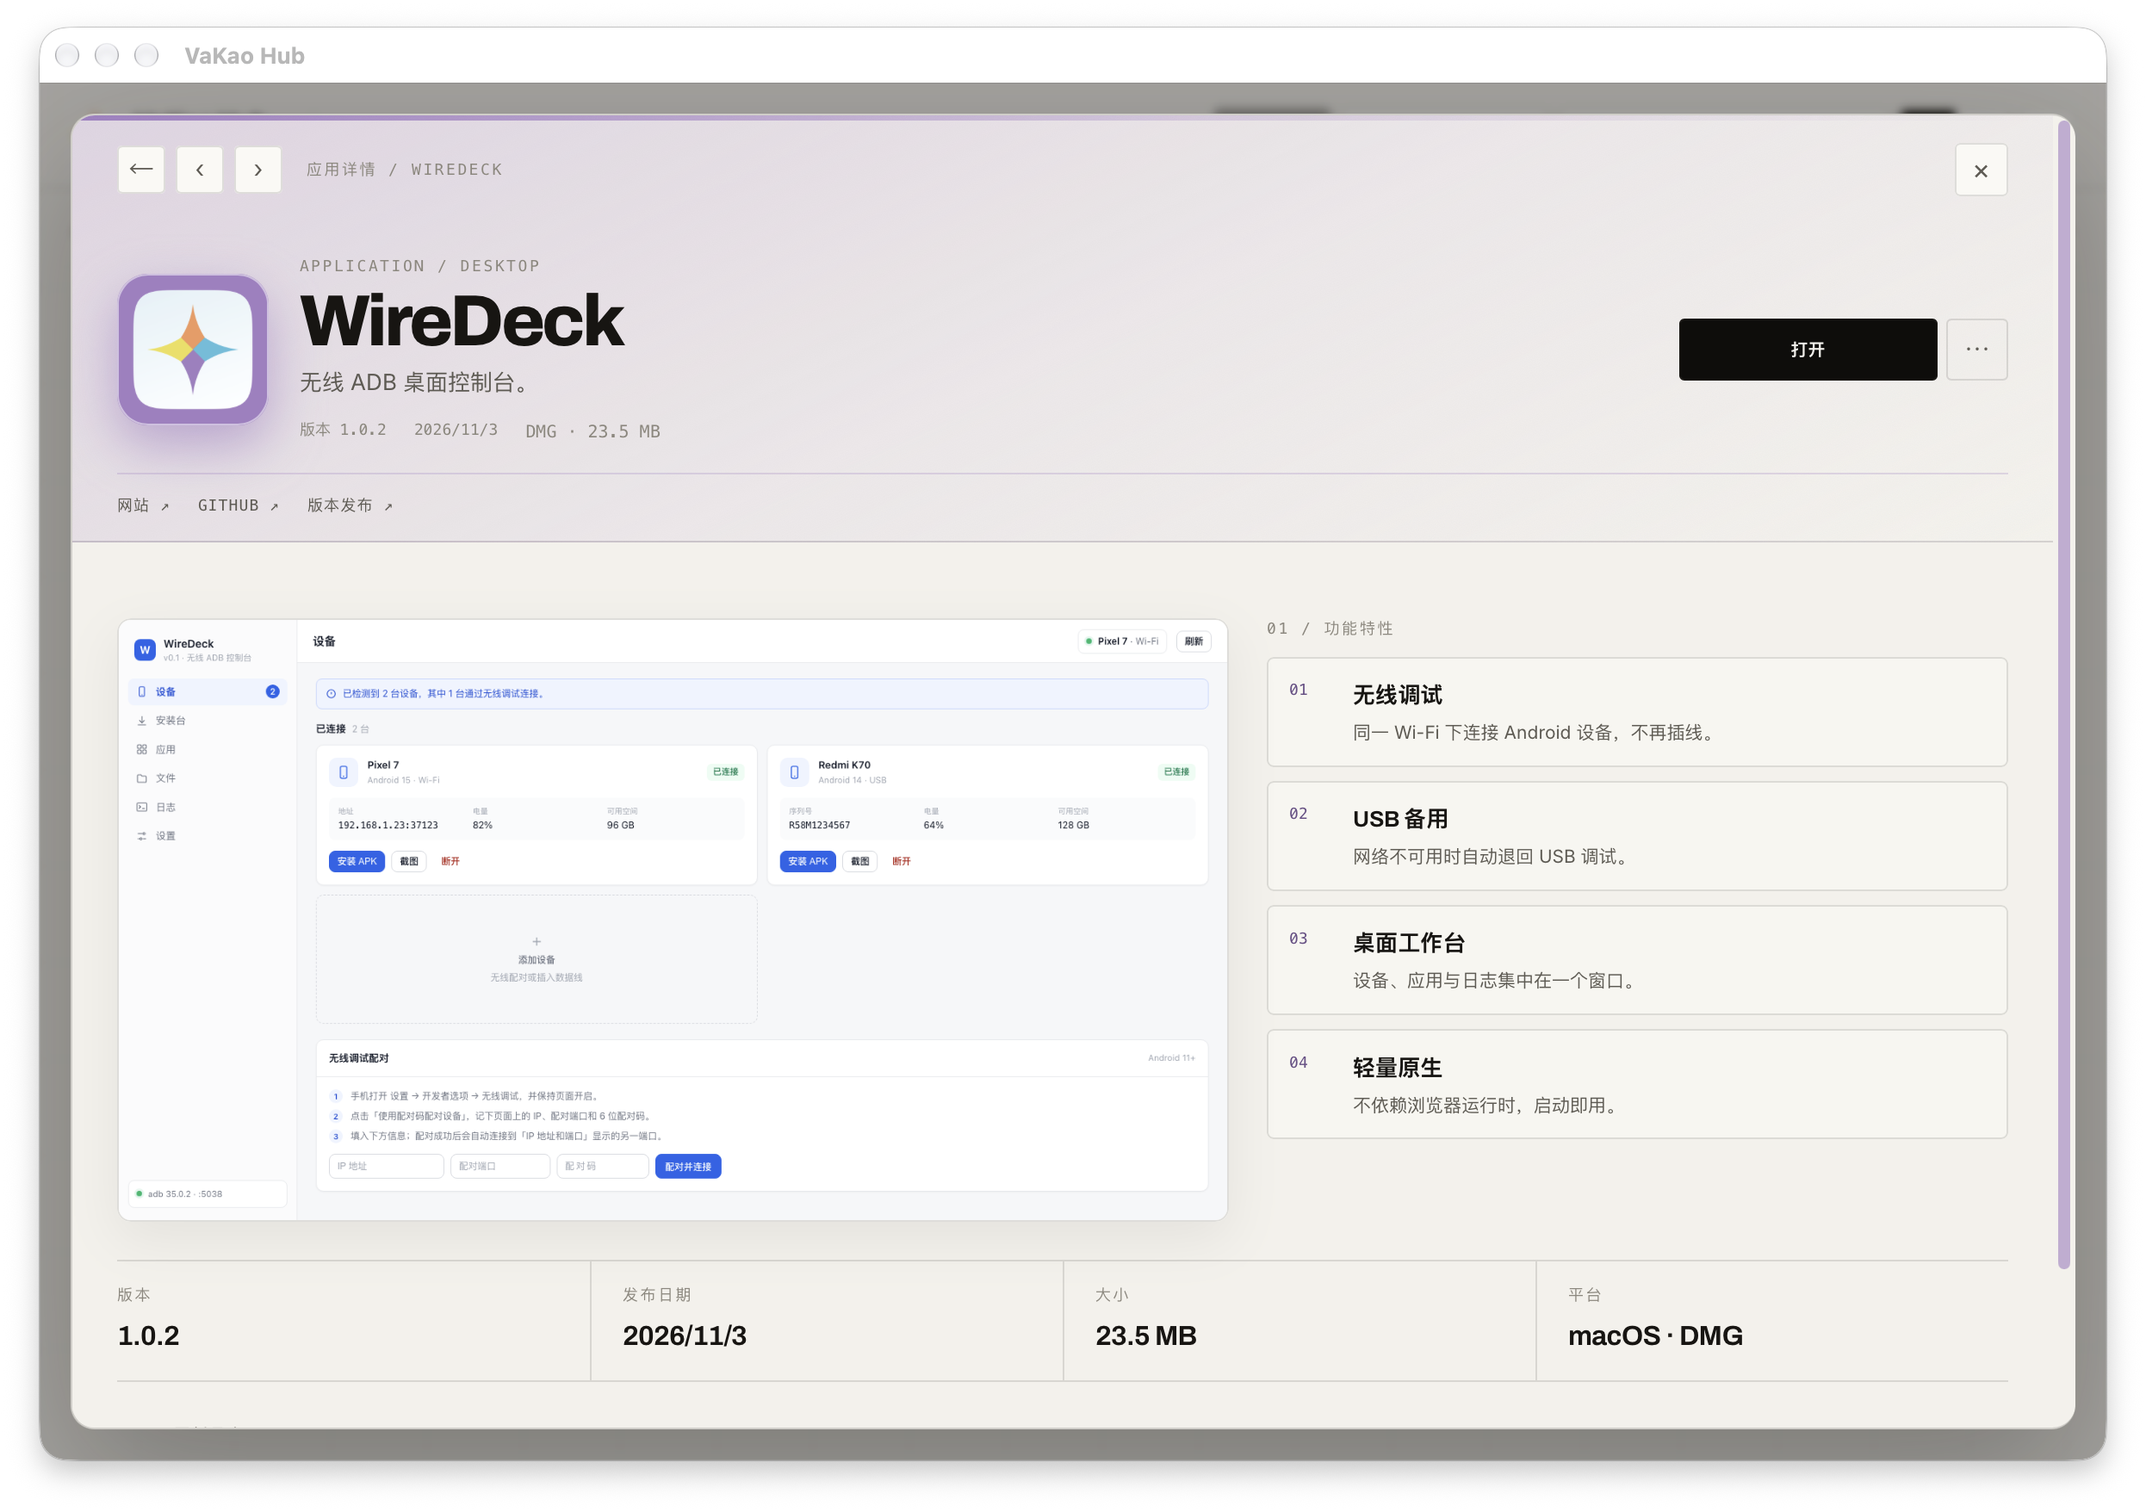
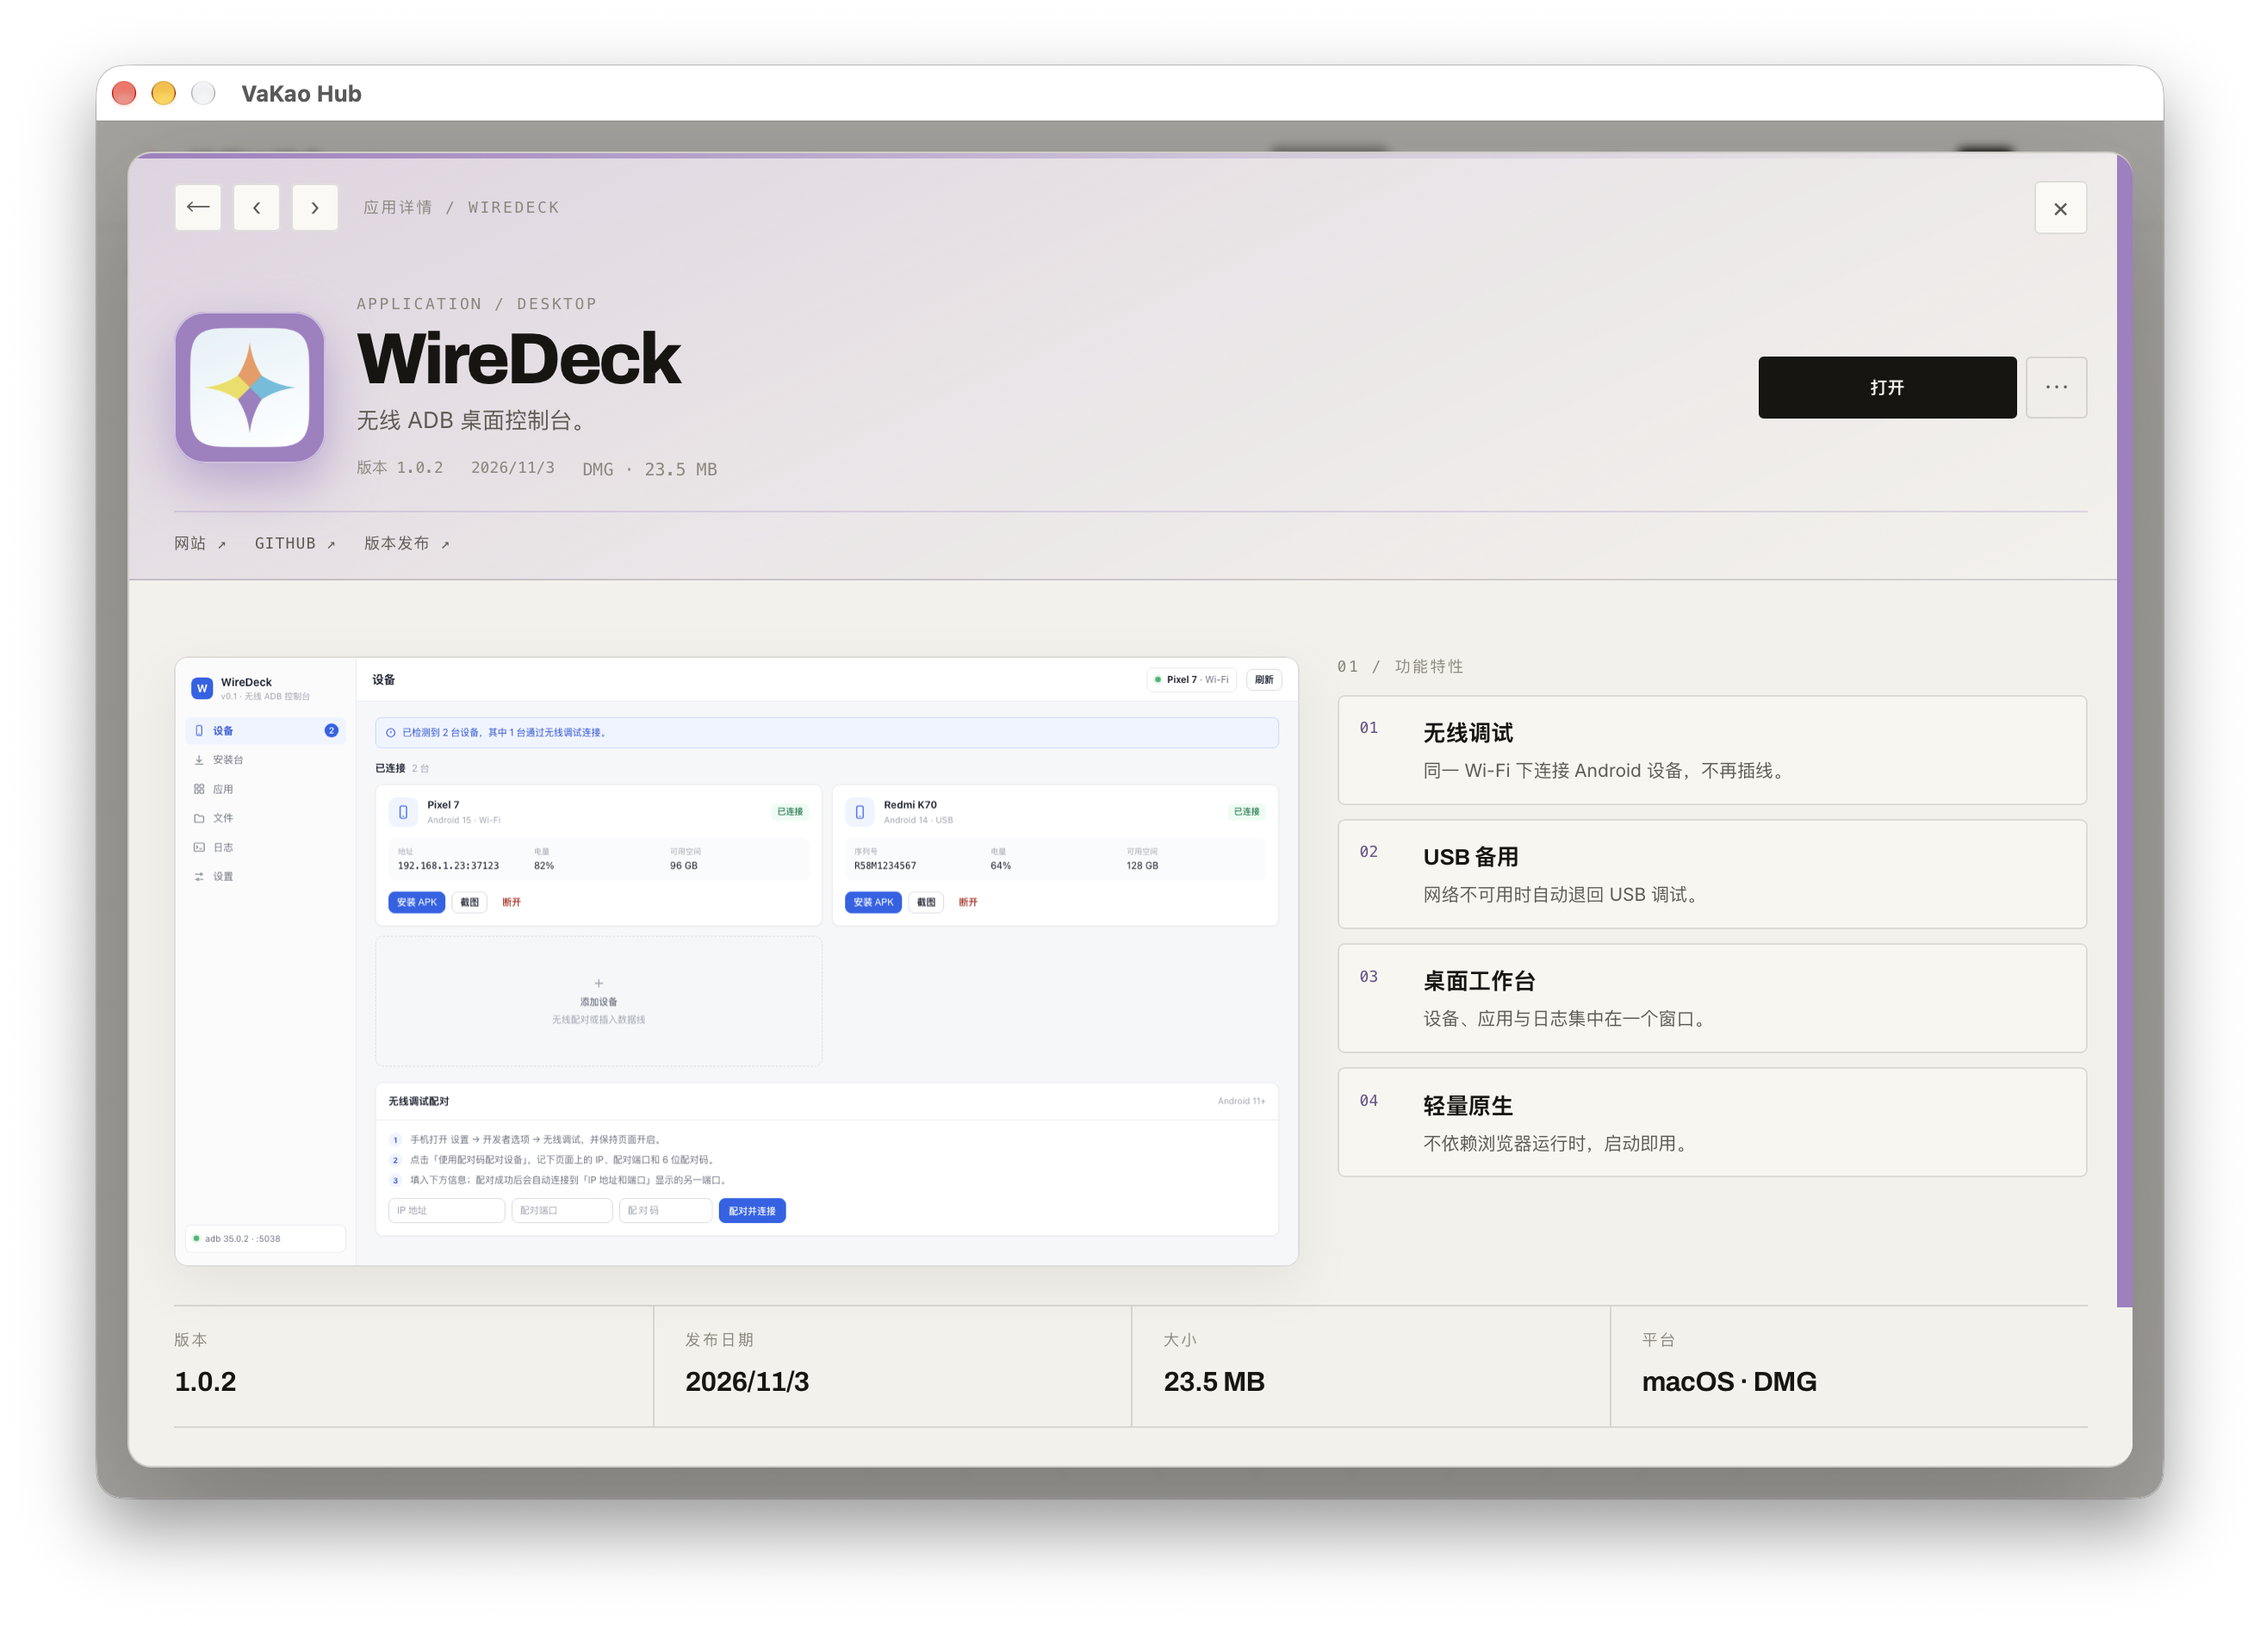
fix(launcher): custom flush scrollbar and richer actions; android hero cta

diff --git a/packages/launcher/frontend/src/App.vue b/packages/launcher/frontend/src/App.vue
@@ -179,7 +179,7 @@
 
     <div v-if="selected" class="detail-overlay" @click.self="closeDetail">
       <section class="detail-panel" :style="themeVars">
-        <div ref="detailScroll" class="detail-scroll">
+        <div ref="detailScroll" class="detail-scroll" @scroll="onDetailScroll">
           <div class="detail-header">
       <header class="detail-bar">
         <div class="detail-nav">
@@ -251,7 +251,7 @@
       <div class="detail-grid">
         <div class="gallery">
           <div v-if="selectedMeta.screenshots.length" class="screen-main">
-            <img :src="selectedMeta.screenshots[screenIndex]" :alt="selected.name" />
+            <img :src="selectedMeta.screenshots[screenIndex]" :alt="selected.name" @load="updateScrollbar" />
             <template v-if="selectedMeta.screenshots.length > 1">
               <button class="screen-arrow left" @click="prevScreen">‹</button>
               <button class="screen-arrow right" @click="nextScreen">›</button>
@@ -321,6 +321,13 @@
         </button>
       </div>
           </div>
+        </div>
+        <div v-if="scrollable" class="scroll-rail" @mousedown="onRailMouseDown">
+          <div
+            class="scroll-thumb"
+            :style="{ height: scrollThumbHeight + 'px', transform: `translateY(${scrollThumbTop}px)` }"
+            @mousedown.stop="startScrollDrag"
+          ></div>
         </div>
       </section>
     </div>
@@ -415,6 +422,9 @@ const gridMode = ref(true);
 const menuKey = ref('');
 const selectedKey = ref('');
 const detailScroll = ref<HTMLElement | null>(null);
+const scrollable = ref(false);
+const scrollThumbHeight = ref(0);
+const scrollThumbTop = ref(0);
 const screenIndex = ref(0);
 const showAllChanges = ref(false);
 const serviceOnline = ref(true);
@@ -608,10 +618,79 @@ async function launch(app: AppView): Promise<void> {
   }
 }
 
+function updateScrollbar(): void {
+  const element = detailScroll.value;
+  if (!element) {
+    scrollable.value = false;
+    return;
+  }
+  const maxScroll = element.scrollHeight - element.clientHeight;
+  scrollable.value = maxScroll > 2;
+  if (!scrollable.value) {
+    scrollThumbHeight.value = 0;
+    scrollThumbTop.value = 0;
+    return;
+  }
+
+  const trackHeight = element.clientHeight;
+  const thumbHeight = Math.max(28, Math.round((trackHeight * trackHeight) / element.scrollHeight));
+  scrollThumbHeight.value = Math.min(trackHeight, thumbHeight);
+  const maxTop = trackHeight - scrollThumbHeight.value;
+  scrollThumbTop.value = maxScroll > 0
+    ? Math.round((element.scrollTop / maxScroll) * maxTop)
+    : 0;
+}
+
+function onDetailScroll(): void {
+  updateScrollbar();
+}
+
 function resetDetailScroll(): void {
   void nextTick(() => {
     detailScroll.value?.scrollTo({ top: 0 });
+    updateScrollbar();
+    window.setTimeout(updateScrollbar, 240);
   });
+}
+
+function onRailMouseDown(event: MouseEvent): void {
+  const element = detailScroll.value;
+  if (!element || event.target !== event.currentTarget) return;
+  const rail = event.currentTarget as HTMLElement;
+  const rect = rail.getBoundingClientRect();
+  const ratio = Math.min(1, Math.max(0, (event.clientY - rect.top) / rect.height));
+  const maxScroll = element.scrollHeight - element.clientHeight;
+  element.scrollTop = ratio * maxScroll;
+  updateScrollbar();
+}
+
+function startScrollDrag(event: MouseEvent): void {
+  const element = detailScroll.value;
+  if (!element) return;
+  event.preventDefault();
+  const startY = event.clientY;
+  const startScroll = element.scrollTop;
+  const maxScroll = element.scrollHeight - element.clientHeight;
+  const maxTop = element.clientHeight - scrollThumbHeight.value;
+  if (maxScroll <= 0 || maxTop <= 0) return;
+
+  const onMove = (moveEvent: MouseEvent): void => {
+    const delta = moveEvent.clientY - startY;
+    element.scrollTop = Math.min(
+      maxScroll,
+      Math.max(0, startScroll + (delta / maxTop) * maxScroll),
+    );
+    updateScrollbar();
+  };
+  const onUp = (): void => {
+    window.removeEventListener('mousemove', onMove);
+    window.removeEventListener('mouseup', onUp);
+    document.body.style.userSelect = '';
+  };
+
+  document.body.style.userSelect = 'none';
+  window.addEventListener('mousemove', onMove);
+  window.addEventListener('mouseup', onUp);
 }
 
 function openDetail(app: AppView): void {
@@ -766,6 +845,7 @@ onMounted(() => {
   void load();
   window.addEventListener('click', closeMenu);
   window.addEventListener('keydown', onKeydown);
+  window.addEventListener('resize', updateScrollbar);
   const runtime = (window as unknown as {
     runtime?: {
       EventsOn(name: string, callback: (payload: Progress) => void): void;
@@ -785,6 +865,7 @@ onUnmounted(() => {
   if (refreshTimer) window.clearInterval(refreshTimer);
   window.removeEventListener('click', closeMenu);
   window.removeEventListener('keydown', onKeydown);
+  window.removeEventListener('resize', updateScrollbar);
   const runtime = (window as unknown as {
     runtime?: { EventsOff(name: string): void };
   }).runtime;

diff --git a/packages/website/index.html b/packages/website/index.html
@@ -8,7 +8,7 @@
       name="description"
       content="VaKao Hub：把 Android 与 macOS 软件的安装、版本、灰度与校验，收进一个安静的工作台。"
     />
-    <link rel="stylesheet" href="./styles.css?v=20261103" />
+    <link rel="stylesheet" href="./styles.css?v=20261103f" />
   </head>
   <body>
     <div class="site">
@@ -50,14 +50,15 @@
 
             <div class="hero-actions">
               <a id="hero-download" class="button" href="#apps">
-                下载 macOS 版 <span aria-hidden="true">↗</span>
+                <span id="hero-download-label">下载 macOS 版</span>
+                <span aria-hidden="true">↗</span>
               </a>
               <a class="button button-ghost" href="#apps">查看全部软件</a>
             </div>
 
             <div class="hero-meta">
               <span id="hero-version">v0.1.1</span>
-              <span>Apple Silicon</span>
+              <span id="hero-platform">Apple Silicon</span>
               <span>SHA-256 校验</span>
             </div>
           </div>
@@ -65,7 +66,7 @@
           <div class="hero-visual" aria-hidden="true">
             <div class="visual-grid"></div>
             <div class="window">
-              <img src="./assets/screens/launcher.png?v=20261103e" alt="" />
+              <img src="./assets/screens/launcher.png?v=20261103g" alt="" />
             </div>
             <div class="float-card">
               <span class="hud">LIVE / CATALOG</span>
@@ -182,7 +183,7 @@
             <a class="button" href="#apps">下载启动器 <span aria-hidden="true">↗</span></a>
           </div>
           <figure class="inside-visual">
-            <img src="./assets/screens/launcher.png?v=20261103e" alt="VaKao Hub 启动器界面" />
+            <img src="./assets/screens/launcher.png?v=20261103g" alt="VaKao Hub 启动器界面" />
           </figure>
         </section>
       </main>
@@ -204,6 +205,6 @@
       </footer>
     </div>
 
-    <script src="./app.js?v=20261103b"></script>
+    <script src="./app.js?v=20261103e"></script>
   </body>
 </html>

diff --git a/packages/launcher/frontend/src/style.css b/packages/launcher/frontend/src/style.css
@@ -776,8 +776,41 @@ button {
   min-height: 0;
   overflow-x: hidden;
   overflow-y: auto;
-  scrollbar-width: thin;
-  scrollbar-color: var(--theme-scroll) transparent;
+  scrollbar-width: none;
+  -ms-overflow-style: none;
+}
+
+.detail-scroll::-webkit-scrollbar {
+  display: none;
+  width: 0;
+  height: 0;
+}
+
+.scroll-rail {
+  position: absolute;
+  top: 0;
+  right: 0;
+  bottom: 0;
+  z-index: 3;
+  width: 9px;
+  background: transparent;
+  user-select: none;
+}
+
+.scroll-thumb {
+  position: absolute;
+  top: 0;
+  left: 0;
+  width: 9px;
+  min-height: 28px;
+  border: 0;
+  border-radius: 0;
+  background: var(--theme);
+  cursor: pointer;
+}
+
+.scroll-thumb:hover {
+  background: var(--theme-deep);
 }
 
 .detail-header {
@@ -1203,8 +1236,7 @@ button {
 }
 
 .content::-webkit-scrollbar,
-.drawer::-webkit-scrollbar,
-.detail-scroll::-webkit-scrollbar {
+.drawer::-webkit-scrollbar {
   width: 9px;
   height: 9px;
 }
@@ -1226,29 +1258,6 @@ button {
 .drawer::-webkit-scrollbar-thumb:hover {
   background: rgba(23, 21, 18, 0.36);
   background-clip: content-box;
-}
-
-.detail-scroll::-webkit-scrollbar-track {
-  background: transparent;
-}
-
-.detail-scroll::-webkit-scrollbar-thumb {
-  border: 0;
-  border-radius: 0;
-  background: var(--theme-scroll);
-}
-
-.detail-scroll::-webkit-scrollbar-thumb:hover {
-  background: var(--theme);
-}
-
-.detail-scroll::-webkit-scrollbar-button {
-  display: none;
-  height: 0;
-}
-
-.detail-scroll::-webkit-scrollbar-corner {
-  background: transparent;
 }
 
 @keyframes overlay-in {

diff --git a/packages/website/app.js b/packages/website/app.js
@@ -226,16 +226,25 @@
   }
 
   function updateHero() {
-    var launcher = state.apps.filter(function (app) {
-      return app.appKey === 'vakaohub' && app.latest && app.latest.artifacts.length;
+    var isAndroid = state.platform === 'android';
+    var target = state.apps.filter(function (app) {
+      return app.latest && app.latest.artifacts.length &&
+        (isAndroid || app.appKey === 'vakaohub');
     })[0];
-    if (!launcher) return;
+    if (!target) return;
 
-    var artifact = launcher.latest.artifacts[0];
+    var artifact = target.latest.artifacts[0];
     var link = document.getElementById('hero-download');
     if (link && artifact) link.href = artifact.downloadUrl;
+
+    var label = document.getElementById('hero-download-label');
+    if (label) label.textContent = isAndroid ? '下载 Android 版' : '下载 macOS 版';
+
     var version = document.getElementById('hero-version');
-    if (version) version.textContent = 'v' + launcher.latest.versionName;
+    if (version) version.textContent = 'v' + target.latest.versionName;
+
+    var platform = document.getElementById('hero-platform');
+    if (platform) platform.textContent = isAndroid ? 'Android APK' : 'Apple Silicon';
   }
 
   function updateStats() {

diff --git a/packages/website/styles.css b/packages/website/styles.css
@@ -50,6 +50,11 @@ html {
   scroll-behavior: smooth;
 }
 
+html,
+body {
+  overflow-x: hidden;
+}
+
 body {
   margin: 0;
   background: var(--paper);
@@ -241,6 +246,7 @@ select {
 }
 
 .hero-copy {
+  min-width: 0;
   max-width: 640px;
 }
 
@@ -273,7 +279,8 @@ select {
 }
 
 .lede {
-  max-width: 520px;
+  max-width: 100%;
+  overflow-wrap: anywhere;
   margin: 0;
   font-size: 16px;
   line-height: 1.8;
@@ -930,8 +937,20 @@ select {
     display: none;
   }
 
+  .nav-actions .link {
+    display: none;
+  }
+
+  .hero {
+    padding-top: 48px;
+  }
+
   .hero h1 {
     font-size: clamp(46px, 13vw, 64px);
+  }
+
+  .hero-visual {
+    display: none;
   }
 
   .catalog-bar {
